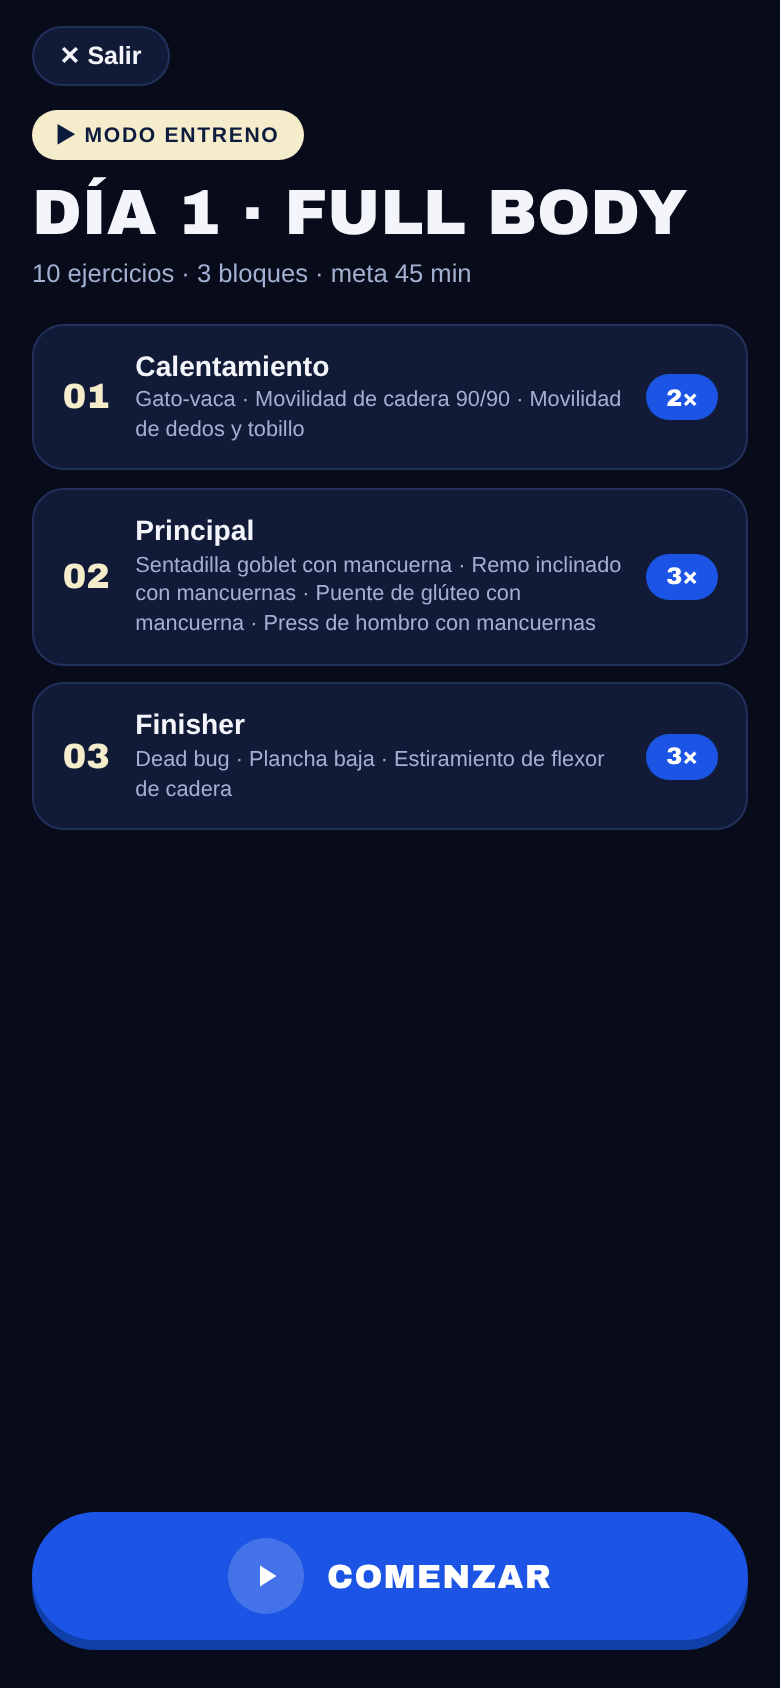
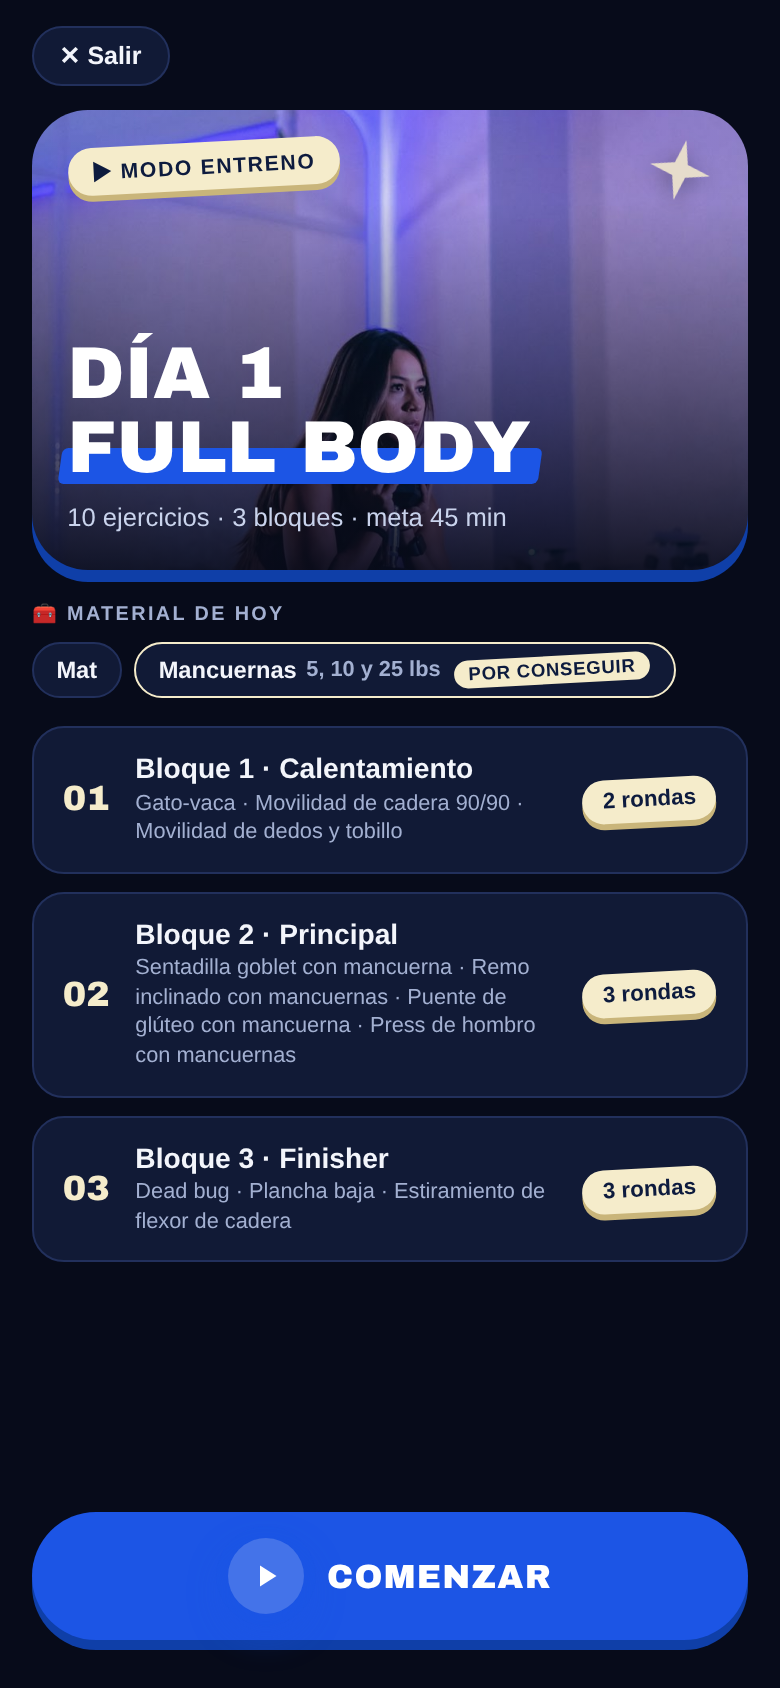
Modo entreno: material del día en la portada
Claude-Session: https://claude.ai/code/session_01SXsANqixjCpmdDjRUbQ7st

diff --git a/dev/prueba-modo-entreno.html b/dev/prueba-modo-entreno.html
@@ -130,7 +130,7 @@
   window.__MOCK_DATA__ = DATA;
 })();
 
-window.__MOCK_DATA__.rutinas["demo-client"] = {"metaMin": 45, "mensajeInicial": "¡Hola, Jocelyn! Bienvenida 💙 Este primer mes es para que tu cuerpo aprenda a moverse: vamos a trabajar movilidad, control y técnica, sin prisa. Entrena 3 días por semana y camina 25 minutos otros 2 días. Cualquier duda o molestia, escríbeme. ¡Vamos con todo!", "aclaraciones": ["Cada día tiene 3 bloques: calentamiento (2 rondas), principal (3 rondas) y finisher (3 rondas).", "Descansa 30 segundos entre ejercicios y 90 segundos al terminar cada ronda del principal.", "Tu semana: lunes día 1 · martes caminar 25 min · miércoles día 2 · jueves caminar 25 min · viernes o sábado día 3.", "Cuida tu pie: nada de saltos. Si te molesta, haz las planchas con las rodillas apoyadas y avísame.", "Las libras son una guía. Si las repeticiones te salen muy fáciles, avísame y subimos.", "Consigue mancuernas de 5 y 10 lbs para brazos y hombros. Las de 25 lbs son para pierna.", "Cuando diga c/lado, haz el tiempo o las repeticiones de cada lado."], "days": [{"name": "Día 1 · Full body", "blocks": [{"name": "Calentamiento · 2 rondas", "mode": "tiempo", "workSecs": 40, "restSecs": 15, "exercises": [{"name": "Gato-vaca", "series": "2", "tipo": "tiempo", "segundos": "40", "id": "e0"}, {"name": "Movilidad de cadera 90/90", "series": "2", "tipo": "tiempo", "segundos": "40", "id": "e1"}, {"name": "Movilidad de dedos y tobillo", "series": "2", "tipo": "tiempo", "segundos": "40", "id": "e2"}], "descansoRonda": 20, "id": "b00"}, {"name": "Principal · 3 rondas", "mode": "reps", "workSecs": 40, "restSecs": 30, "exercises": [{"name": "Sentadilla goblet con mancuerna", "series": "3", "reps": "12", "tipo": "reps", "carga": "10", "id": "e3"}, {"name": "Remo inclinado con mancuernas", "series": "3", "reps": "12", "tipo": "reps", "carga": "10", "id": "e4"}, {"name": "Puente de glúteo con mancuerna", "series": "3", "reps": "12", "tipo": "reps", "carga": "25", "id": "e5"}, {"name": "Press de hombro con mancuernas", "series": "3", "reps": "10", "tipo": "reps", "carga": "5", "id": "e6"}], "descansoRonda": 90, "id": "b01"}, {"name": "Finisher · 3 rondas", "mode": "reps", "workSecs": 40, "restSecs": 20, "exercises": [{"name": "Dead bug", "series": "3", "reps": "10 c/lado", "tipo": "reps", "id": "e7"}, {"name": "Plancha baja", "series": "3", "tipo": "tiempo", "segundos": "20", "id": "e8"}, {"name": "Estiramiento de flexor de cadera", "series": "3", "tipo": "tiempo", "segundos": "30", "lado": true, "id": "e9"}], "descansoRonda": 30, "id": "b02"}], "id": "d0"}, {"name": "Día 2 · Full body", "blocks": [{"name": "Calentamiento · 2 rondas", "mode": "tiempo", "workSecs": 40, "restSecs": 15, "exercises": [{"name": "Rotación torácica en cuadrupedia", "series": "2", "tipo": "tiempo", "segundos": "40", "id": "e10"}, {"name": "Aperturas con banda", "series": "2", "tipo": "tiempo", "segundos": "40", "id": "e11"}, {"name": "Caminata lateral con banda", "series": "2", "tipo": "tiempo", "segundos": "40", "id": "e12"}], "descansoRonda": 20, "id": "b10"}, {"name": "Principal · 3 rondas", "mode": "reps", "workSecs": 40, "restSecs": 30, "exercises": [{"name": "Sentadilla isométrica en pared", "series": "3", "tipo": "tiempo", "segundos": "30", "id": "e13"}, {"name": "Remo al mentón con mancuernas", "series": "3", "reps": "12", "tipo": "reps", "carga": "5", "id": "e14"}, {"name": "Peso muerto rumano con mancuernas", "series": "3", "reps": "12", "tipo": "reps", "carga": "10", "id": "e15"}, {"name": "Press de pecho en puente de glúteo con mancuernas", "series": "3", "reps": "12", "tipo": "reps", "carga": "10", "id": "e16"}], "descansoRonda": 90, "id": "b11"}, {"name": "Finisher · 3 rondas", "mode": "reps", "workSecs": 40, "restSecs": 20, "exercises": [{"name": "Bird dog", "series": "3", "reps": "10 c/lado", "tipo": "reps", "id": "e17"}, {"name": "Plancha lateral", "series": "3", "tipo": "tiempo", "segundos": "20", "lado": true, "id": "e18"}, {"name": "Estiramiento de glúteo en figura 4", "series": "3", "tipo": "tiempo", "segundos": "30", "lado": true, "id": "e19"}], "descansoRonda": 30, "id": "b12"}], "id": "d1"}, {"name": "Día 3 · Full body", "blocks": [{"name": "Calentamiento · 2 rondas", "mode": "tiempo", "workSecs": 40, "restSecs": 15, "exercises": [{"name": "Círculos de brazos", "series": "2", "tipo": "tiempo", "segundos": "40", "id": "e20"}, {"name": "Movilidad de dedos y tobillo", "series": "2", "tipo": "tiempo", "segundos": "40", "id": "e21"}, {"name": "Equilibrio en un pie", "series": "2", "tipo": "tiempo", "segundos": "20", "lado": true, "id": "e22"}], "descansoRonda": 20, "id": "b20"}, {"name": "Principal · 3 rondas", "mode": "reps", "workSecs": 40, "restSecs": 30, "exercises": [{"name": "Sentadilla sumo con mancuerna", "series": "3", "reps": "12", "tipo": "reps", "carga": "25", "id": "e23"}, {"name": "Plancha alta con toques de hombro", "series": "3", "reps": "10 c/lado", "tipo": "reps", "id": "e24"}, {"name": "Patada de glúteo con banda", "series": "3", "reps": "12 c/pierna", "tipo": "reps", "id": "e25"}, {"name": "Remo sentada con banda", "series": "3", "reps": "12", "tipo": "reps", "id": "e26"}], "descansoRonda": 90, "id": "b21"}, {"name": "Finisher · 3 rondas", "mode": "reps", "workSecs": 40, "restSecs": 20, "exercises": [{"name": "Elevación de piernas acostada", "series": "3", "reps": "10", "tipo": "reps", "id": "e27"}, {"name": "Plancha baja", "series": "3", "tipo": "tiempo", "segundos": "20", "id": "e28"}, {"name": "Postura del niño", "series": "3", "tipo": "tiempo", "segundos": "30", "id": "e29"}], "descansoRonda": 30, "id": "b22"}], "id": "d2"}]};
+window.__MOCK_DATA__.rutinas["demo-client"] = {"metaMin": 45, "mensajeInicial": "¡Hola, Jocelyn! Bienvenida 💙 Este primer mes es para que tu cuerpo aprenda a moverse: vamos a trabajar movilidad, control y técnica, sin prisa. Entrena 3 días por semana y camina 25 minutos otros 2 días. Cualquier duda o molestia, escríbeme. ¡Vamos con todo!", "aclaraciones": ["Cada día tiene 3 bloques: calentamiento (2 rondas), principal (3 rondas) y finisher (3 rondas).", "Descansa 30 segundos entre ejercicios y 90 segundos al terminar cada ronda del principal.", "Tu semana: lunes día 1 · martes caminar 25 min · miércoles día 2 · jueves caminar 25 min · viernes o sábado día 3.", "Cuida tu pie: nada de saltos. Si te molesta, haz las planchas con las rodillas apoyadas y avísame.", "Las libras son una guía. Si las repeticiones te salen muy fáciles, avísame y subimos.", "Cuando diga c/lado, haz el tiempo o las repeticiones de cada lado.", "Si tienes iPhone, sube el volumen para escuchar los sonidos del modo entreno."], "days": [{"name": "Día 1 · Full body", "blocks": [{"name": "Calentamiento · 2 rondas", "mode": "tiempo", "workSecs": 40, "restSecs": 15, "exercises": [{"name": "Gato-vaca", "series": "2", "tipo": "tiempo", "segundos": "40", "id": "e0"}, {"name": "Movilidad de cadera 90/90", "series": "2", "tipo": "tiempo", "segundos": "40", "id": "e1"}, {"name": "Movilidad de dedos y tobillo", "series": "2", "tipo": "tiempo", "segundos": "40", "id": "e2"}], "descansoRonda": 20, "id": "b00"}, {"name": "Principal · 3 rondas", "mode": "reps", "workSecs": 40, "restSecs": 30, "exercises": [{"name": "Sentadilla goblet con mancuerna", "series": "3", "reps": "12", "tipo": "reps", "carga": "10", "id": "e3"}, {"name": "Remo inclinado con mancuernas", "series": "3", "reps": "12", "tipo": "reps", "carga": "10", "id": "e4"}, {"name": "Puente de glúteo con mancuerna", "series": "3", "reps": "12", "tipo": "reps", "carga": "25", "id": "e5"}, {"name": "Press de hombro con mancuernas", "series": "3", "reps": "10", "tipo": "reps", "carga": "5", "id": "e6"}], "descansoRonda": 90, "id": "b01"}, {"name": "Finisher · 3 rondas", "mode": "reps", "workSecs": 40, "restSecs": 20, "exercises": [{"name": "Dead bug", "series": "3", "reps": "10 c/lado", "tipo": "reps", "id": "e7"}, {"name": "Plancha baja", "series": "3", "tipo": "tiempo", "segundos": "20", "id": "e8"}, {"name": "Estiramiento de flexor de cadera", "series": "3", "tipo": "tiempo", "segundos": "30", "lado": true, "id": "e9"}], "descansoRonda": 30, "id": "b02"}], "id": "d0"}, {"name": "Día 2 · Full body", "blocks": [{"name": "Calentamiento · 2 rondas", "mode": "tiempo", "workSecs": 40, "restSecs": 15, "exercises": [{"name": "Rotación torácica en cuadrupedia", "series": "2", "tipo": "tiempo", "segundos": "40", "id": "e10"}, {"name": "Aperturas con banda", "series": "2", "tipo": "tiempo", "segundos": "40", "id": "e11"}, {"name": "Caminata lateral con banda", "series": "2", "tipo": "tiempo", "segundos": "40", "id": "e12"}], "descansoRonda": 20, "id": "b10"}, {"name": "Principal · 3 rondas", "mode": "reps", "workSecs": 40, "restSecs": 30, "exercises": [{"name": "Sentadilla isométrica en pared", "series": "3", "tipo": "tiempo", "segundos": "30", "id": "e13"}, {"name": "Remo al mentón con mancuernas", "series": "3", "reps": "12", "tipo": "reps", "carga": "5", "id": "e14"}, {"name": "Peso muerto rumano con mancuernas", "series": "3", "reps": "12", "tipo": "reps", "carga": "10", "id": "e15"}, {"name": "Press de pecho en puente de glúteo con mancuernas", "series": "3", "reps": "12", "tipo": "reps", "carga": "10", "id": "e16"}], "descansoRonda": 90, "id": "b11"}, {"name": "Finisher · 3 rondas", "mode": "reps", "workSecs": 40, "restSecs": 20, "exercises": [{"name": "Bird dog", "series": "3", "reps": "10 c/lado", "tipo": "reps", "id": "e17"}, {"name": "Plancha lateral", "series": "3", "tipo": "tiempo", "segundos": "20", "lado": true, "id": "e18"}, {"name": "Estiramiento de glúteo en figura 4", "series": "3", "tipo": "tiempo", "segundos": "30", "lado": true, "id": "e19"}], "descansoRonda": 30, "id": "b12"}], "id": "d1"}, {"name": "Día 3 · Full body", "blocks": [{"name": "Calentamiento · 2 rondas", "mode": "tiempo", "workSecs": 40, "restSecs": 15, "exercises": [{"name": "Círculos de brazos", "series": "2", "tipo": "tiempo", "segundos": "40", "id": "e20"}, {"name": "Movilidad de dedos y tobillo", "series": "2", "tipo": "tiempo", "segundos": "40", "id": "e21"}, {"name": "Equilibrio en un pie", "series": "2", "tipo": "tiempo", "segundos": "20", "lado": true, "id": "e22"}], "descansoRonda": 20, "id": "b20"}, {"name": "Principal · 3 rondas", "mode": "reps", "workSecs": 40, "restSecs": 30, "exercises": [{"name": "Sentadilla sumo con mancuerna", "series": "3", "reps": "12", "tipo": "reps", "carga": "25", "id": "e23"}, {"name": "Plancha alta con toques de hombro", "series": "3", "reps": "10 c/lado", "tipo": "reps", "id": "e24"}, {"name": "Patada de glúteo con banda", "series": "3", "reps": "12 c/pierna", "tipo": "reps", "id": "e25"}, {"name": "Remo sentada con banda", "series": "3", "reps": "12", "tipo": "reps", "id": "e26"}], "descansoRonda": 90, "id": "b21"}, {"name": "Finisher · 3 rondas", "mode": "reps", "workSecs": 40, "restSecs": 20, "exercises": [{"name": "Elevación de piernas acostada", "series": "3", "reps": "10", "tipo": "reps", "id": "e27"}, {"name": "Plancha baja", "series": "3", "tipo": "tiempo", "segundos": "20", "id": "e28"}, {"name": "Postura del niño", "series": "3", "tipo": "tiempo", "segundos": "30", "id": "e29"}], "descansoRonda": 30, "id": "b22"}], "id": "d2"}], "porConseguir": ["Mancuernas de 5 y 10 lbs"]};
 Object.defineProperty(window, "firebase", { value: window.firebase, writable: false });
 window.emailjs = { init: function(){}, send: function(){ return Promise.resolve(); } };
 window.addEventListener("load", function(){ setTimeout(function(){ try { showTab("tab-rutina"); } catch(e){} }, 1500); });
@@ -279,6 +279,14 @@ window.addEventListener("load", function(){ setTimeout(function(){ try { showTab
   .rt-ex-thumb { width:2.9rem; height:2.9rem; border-radius:12px; flex-shrink:0; background:linear-gradient(180deg, rgba(15,63,168,0.2), rgba(7,11,26,0.7)), var(--blue); display:flex; align-items:center; justify-content:center; overflow:hidden; }
   .rt-ex-thumb img { width:100%; height:100%; object-fit:cover; display:block; }
   .rt-ex-thumb svg { width:13px; height:13px; }
+  .rt-mat { margin:0 0 0.9rem; animation:faUp 0.4s cubic-bezier(0.2,0.8,0.2,1) both; }
+  .rt-mat-h { font-size:0.62rem; font-weight:800; letter-spacing:0.12em; text-transform:uppercase; color:var(--muted); margin-bottom:0.45rem; }
+  .rt-mat-list { display:flex; flex-wrap:wrap; gap:0.4rem; }
+  .rt-mat-chip { display:inline-flex; align-items:center; gap:0.3rem; background:var(--surface,#121a36); border:1px solid var(--border); color:var(--text); font-size:0.74rem; font-weight:700; padding:0.38rem 0.7rem; border-radius:999px; }
+  .rt-mat-chip small { color:var(--muted); font-weight:600; font-size:0.68rem; }
+  .rt-mat-chip.falta { border-color:var(--cream); }
+  .rt-mat-chip em { font-style:normal; background:var(--cream); color:#0D1B3E; font-size:0.58rem; font-weight:800; letter-spacing:0.04em; text-transform:uppercase; padding:0.12rem 0.45rem; border-radius:999px; transform:rotate(-3deg); margin-left:0.15rem; }
+  .rt-mat-falta { margin-top:0.45rem; font-size:0.7rem; color:var(--cream); font-weight:700; }
   .rt-ex-t { flex:1; min-width:0; }
   .rt-ex-t .ex-name, .rt-ex-t .ex-prescribed { display:block; }
   .rt-ex-t .ex-prescribed { margin-bottom:0; }
@@ -2293,6 +2301,7 @@ body.portal-dark .anuncio-card .anuncio-text{flex:1;min-width:0}
       <div><h2 class="rtt-start-title" id="rtt-start-title"></h2>
       <div class="rtt-start-meta" id="rtt-start-meta"></div></div>
     </div>
+    <div id="rtt-start-mat"></div>
     <div class="rtt-start-blocks" id="rtt-start-blocks"></div>
     <button type="button" class="rtt-go" onclick="rttStart()"><span class="rtt-go-ico"><svg viewBox="0 0 24 24" fill="#fff"><path d="M8 5v14l11-7z"/></svg></span>Comenzar</button>
   </div>
@@ -4574,6 +4583,7 @@ function startGuidedWorkout(dayId) {
   var nEx = 0, blocks = (day.blocks || []).filter(function(b) { return b.exercises && b.exercises.length; });
   blocks.forEach(function(b) { nEx += b.exercises.length; });
   document.getElementById('rtt-start-meta').textContent = nEx + ' ejercicios · ' + blocks.length + ' bloques' + (RTT.meta ? ' · meta ' + RTT.meta + ' min' : '');
+  document.getElementById('rtt-start-mat').innerHTML = rtMaterialHtml(day);
   document.getElementById('rtt-start-blocks').innerHTML = blocks.map(function(b, i) {
     var rondas = b.exercises.reduce(function(m, e) { return Math.max(m, exsSeriesCount(e)); }, 1);
     return '<div class="rtt-sb" style="animation-delay:' + (0.12 + i * 0.08).toFixed(2) + 's"><span class="rtt-sb-n">' + String(i + 1).padStart(2, '0') + '</span><span class="rtt-sb-t"><b>Bloque ' + (i + 1) + ' · ' + escapeHtml(rttBlockLabel(b)) + '</b><small>' + b.exercises.map(function(e) { return escapeHtml(e.name); }).join(' · ') + '</small></span><span class="rtt-sb-r">' + rondas + ' rondas</span></div>';
@@ -4865,8 +4875,61 @@ function rtDayHeroHtml(day) {
   return h;
 }
 
+// ── Material del día ──
+// Se arma solo a partir de los nombres de los ejercicios (y las libras
+// sugeridas). Si la rutina trae day.materiales, se usa esa lista. Lo que
+// esté en rutina.porConseguir (ej. "Tobillera para polea") sale marcado
+// con la etiqueta "Por conseguir".
+var RT_MATERIAL_REGLAS = [
+  { re: /mancuerna/i, nombre: 'Mancuernas', libras: true },
+  { re: /kettlebell|pesa rusa/i, nombre: 'Kettlebell' },
+  { re: /con barra|barra y discos/i, nombre: 'Barra y discos' },
+  { re: /smith/i, nombre: 'Máquina Smith' },
+  { re: /polea/i, nombre: 'Polea' },
+  { re: /(patada|abducci[oó]n|curl femoral|aducci[oó]n).*polea|polea.*(patada|abducci[oó]n|curl femoral)/i, nombre: 'Tobillera para polea' },
+  { re: /banda|liga/i, nombre: 'Banda elástica' },
+  { re: /banco/i, nombre: 'Banco' },
+  { re: /silla/i, nombre: 'Silla firme' },
+  { re: /pared/i, nombre: 'Pared' },
+  { re: /plancha|dead bug|bird dog|puente|gato|cuadrupedia|acostad|estiramiento|postura del ni|en el piso|90\/90|elevaci[oó]n de piernas|rotaci[oó]n tor/i, nombre: 'Mat' }
+];
+function rtMaterialesDia(day) {
+  if (Array.isArray(day.materiales) && day.materiales.length) return day.materiales.map(function(n) { return { nombre: String(n) }; });
+  var out = [], idx = {};
+  (day.blocks || []).forEach(function(b) { (b.exercises || []).forEach(function(e) {
+    RT_MATERIAL_REGLAS.forEach(function(r) {
+      if (!r.re.test(e.name || '')) return;
+      if (!(r.nombre in idx)) { idx[r.nombre] = out.length; out.push({ nombre: r.nombre, libras: [] }); }
+      var c = parseInt(e.carga, 10);
+      if (r.libras && c && out[idx[r.nombre]].libras.indexOf(c) === -1) out[idx[r.nombre]].libras.push(c);
+    });
+  }); });
+  out.forEach(function(m) {
+    if (m.libras && m.libras.length) { var l = m.libras.sort(function(a, b) { return a - b; }); m.detalle = (l.length > 1 ? l.slice(0, -1).join(', ') + ' y ' + l[l.length - 1] : l[0]) + ' lbs'; }
+  });
+  return out;
+}
+function rtPorConseguir(nombre) {
+  var lista = (currentRutinaData && currentRutinaData.porConseguir) || [], n = String(nombre).toLowerCase();
+  return lista.some(function(x) { x = String(x).toLowerCase(); return x.indexOf(n) > -1 || n.indexOf(x) > -1 || (n.split(' ')[0].length > 3 && x.indexOf(n.split(' ')[0]) > -1); });
+}
+function rtMaterialHtml(day) {
+  var mats = rtMaterialesDia(day);
+  if (!mats.length) return '';
+  var falta = (currentRutinaData && currentRutinaData.porConseguir) || [];
+  var h = '<div class="rt-mat"><div class="rt-mat-h">🧰 Material de hoy</div><div class="rt-mat-list">';
+  mats.forEach(function(m) {
+    var pc = rtPorConseguir(m.nombre);
+    h += '<span class="rt-mat-chip' + (pc ? ' falta' : '') + '">' + escapeHtml(m.nombre) + (m.detalle ? ' <small>' + escapeHtml(m.detalle) + '</small>' : '') + (pc ? '<em>Por conseguir</em>' : '') + '</span>';
+  });
+  h += '</div>';
+  var sueltos = falta.filter(function(x) { return !mats.some(function(m) { return rtPorConseguir(m.nombre) && (String(x).toLowerCase().indexOf(m.nombre.toLowerCase().split(' ')[0]) > -1); }); });
+  if (sueltos.length) h += '<div class="rt-mat-falta">Por conseguir: ' + sueltos.map(escapeHtml).join(' · ') + '</div>';
+  return h + '</div>';
+}
+
 function renderExerciseBlocksHtml(day) {
-  var html = rtDayHeroHtml(day);
+  var html = rtDayHeroHtml(day) + rtMaterialHtml(day);
   (day.blocks || []).forEach(function(block) {
     if (!block.exercises || block.exercises.length === 0) return;
     var hasTiempoEx = block.exercises.some(function(e){ return exTipo(block, e) === 'tiempo'; });

diff --git a/index.html b/index.html
@@ -2171,6 +2171,7 @@ body.portal-dark .anuncio-card .anuncio-text{flex:1;min-width:0}
       <div><h2 class="rtt-start-title" id="rtt-start-title"></h2>
       <div class="rtt-start-meta" id="rtt-start-meta"></div></div>
     </div>
+    <div id="rtt-start-mat"></div>
     <div class="rtt-start-blocks" id="rtt-start-blocks"></div>
     <button type="button" class="rtt-go" onclick="rttStart()"><span class="rtt-go-ico"><svg viewBox="0 0 24 24" fill="#fff"><path d="M8 5v14l11-7z"/></svg></span>Comenzar</button>
   </div>
@@ -4452,6 +4453,7 @@ function startGuidedWorkout(dayId) {
   var nEx = 0, blocks = (day.blocks || []).filter(function(b) { return b.exercises && b.exercises.length; });
   blocks.forEach(function(b) { nEx += b.exercises.length; });
   document.getElementById('rtt-start-meta').textContent = nEx + ' ejercicios · ' + blocks.length + ' bloques' + (RTT.meta ? ' · meta ' + RTT.meta + ' min' : '');
+  document.getElementById('rtt-start-mat').innerHTML = rtMaterialHtml(day);
   document.getElementById('rtt-start-blocks').innerHTML = blocks.map(function(b, i) {
     var rondas = b.exercises.reduce(function(m, e) { return Math.max(m, exsSeriesCount(e)); }, 1);
     return '<div class="rtt-sb" style="animation-delay:' + (0.12 + i * 0.08).toFixed(2) + 's"><span class="rtt-sb-n">' + String(i + 1).padStart(2, '0') + '</span><span class="rtt-sb-t"><b>Bloque ' + (i + 1) + ' · ' + escapeHtml(rttBlockLabel(b)) + '</b><small>' + b.exercises.map(function(e) { return escapeHtml(e.name); }).join(' · ') + '</small></span><span class="rtt-sb-r">' + rondas + ' rondas</span></div>';
